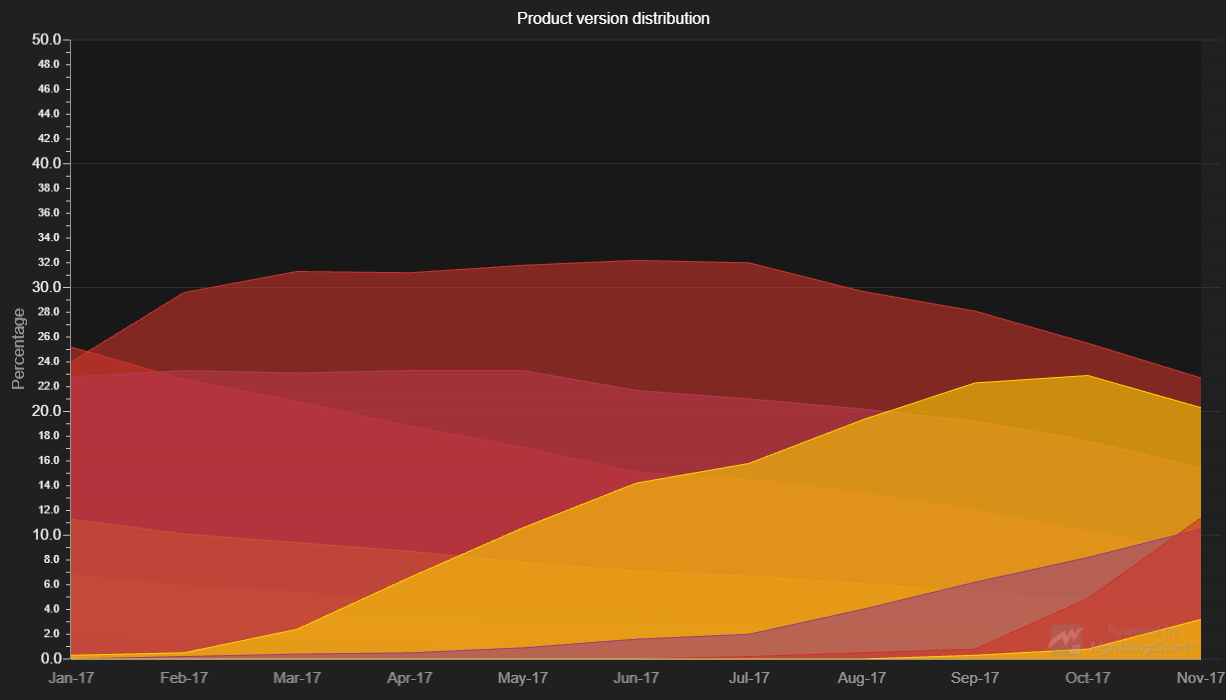
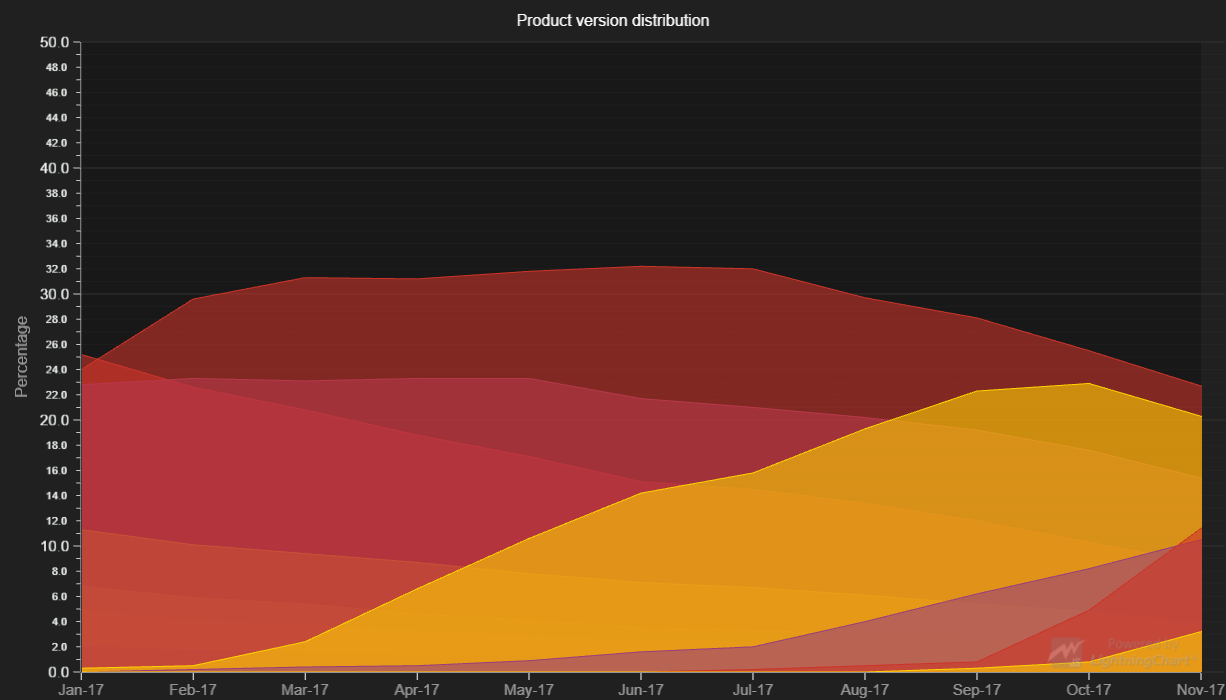
LCJS 3.0.0

Changed region(s): [[0.0, 0.03, 1.0, 1.0], [0.4029, 0.0, 0.5889, 0.06]]

diff --git a/src/index.js b/src/index.js
@@ -13,6 +13,7 @@ const {
     emptyFill,
     AxisTickStrategies,
     ColorRGBA,
+    UIElementBuilders,
     Themes
 } = lcjs
 
@@ -39,7 +40,7 @@ const createAreaSeries = (versionNumber, index) => {
         .setName(`Version ${versionNumber}`)
         .setFillStyle(opaqueFills[index])
         .setStrokeStyle((stroke) => stroke.setFillStyle(solidFills[index]))
-        .setResultTableFormatter((builder, series, xValue, yValue) => {
+        .setCursorResultTableFormatter((builder, series, xValue, yValue) => {
             return builder
                 .addRow(series.getName())
                 .addRow('Date: ', reportTableXlable[parseInt(xValue)])
@@ -381,18 +382,12 @@ const axisX = xyChart.getDefaultAxisX()
     .setTickStrategy(AxisTickStrategies.Empty)
 
 // Create Custom Axis
-const margin = 2;
 let customAxisX = (data, index) => {
-    axisX.addCustomTick()
+    axisX.addCustomTick(UIElementBuilders.AxisTick)
         .setValue(index)
         .setGridStrokeLength(0)
         .setTextFormatter((_) => data[index].x)
         .setMarker((marker) => marker
-            .setPadding(margin)
-            .setBackground((background) => background
-                .setStrokeStyle(emptyLine)
-                .setFillStyle(emptyFill)
-            )
             .setTextFillStyle(new SolidFill({ color: ColorRGBA(150, 150, 150) }))
         )
 

diff --git a/README.md b/README.md
@@ -53,6 +53,6 @@ Direct developer email support can be purchased through a [Support Plan][4] or b
 © Arction Ltd 2009-2020. All rights reserved.
 
 
-[XY cartesian chart]: https://www.arction.com/lightningchart-js-api-documentation/v2.2.0/classes/chartxy.html
-[Area series]: https://www.arction.com/lightningchart-js-api-documentation/v2.2.0/classes/chartxy.html#addareaseries
+[XY cartesian chart]: https://www.arction.com/lightningchart-js-api-documentation/v3.0.0/classes/chartxy.html
+[Area series]: https://www.arction.com/lightningchart-js-api-documentation/v3.0.0/classes/chartxy.html#addareaseries
 
